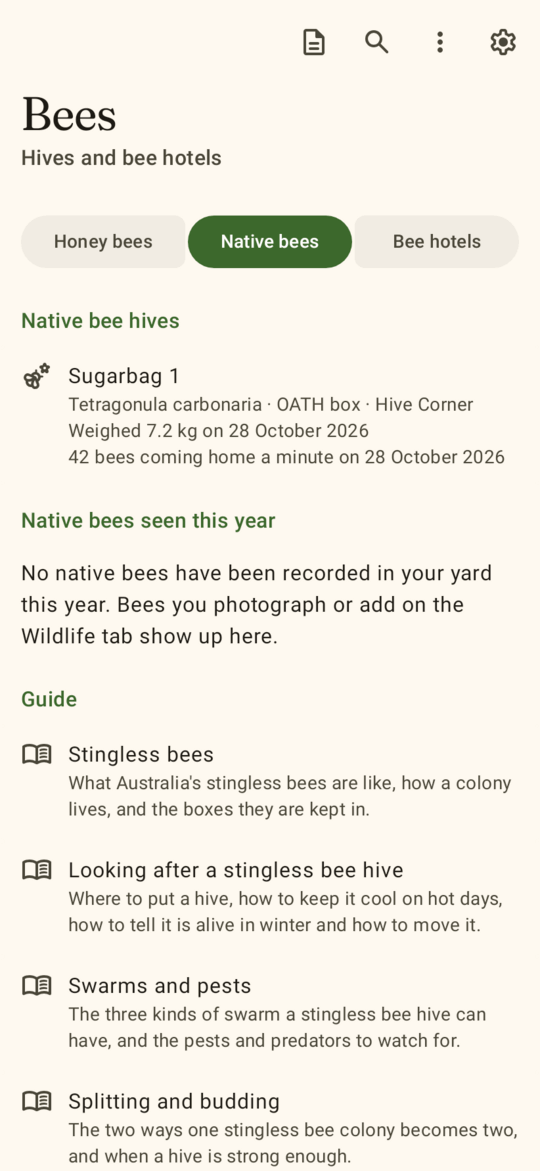
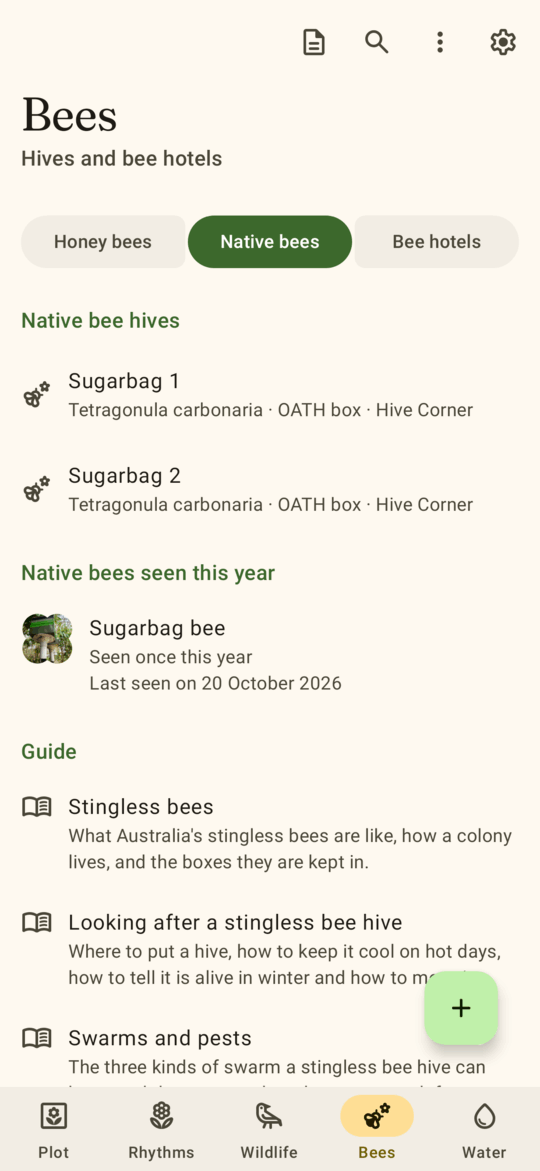
Use the garden photos in the README's Rhythms and Bees screenshots

diff --git a/app/src/test/java/io/github/wkoller/pollenplot/ReadmeScreensTest.kt b/app/src/test/java/io/github/wkoller/pollenplot/ReadmeScreensTest.kt
@@ -21,6 +21,10 @@ import coil3.annotation.DelicateCoilApi
 import coil3.imageDecoderEnabled
 import io.github.wkoller.pollenplot.data.PhotoAnalysis
 import io.github.wkoller.pollenplot.data.prefs.Settings
+import io.github.wkoller.pollenplot.domain.bees.stingless.Facing
+import io.github.wkoller.pollenplot.domain.bees.stingless.NativeBox
+import io.github.wkoller.pollenplot.domain.bees.stingless.NativeOrigin
+import io.github.wkoller.pollenplot.domain.bees.stingless.StinglessSpecies
 import io.github.wkoller.pollenplot.domain.garden.ZoneKind
 import io.github.wkoller.pollenplot.domain.garden.ZoneRect
 import io.github.wkoller.pollenplot.domain.id.BoxBp
@@ -108,6 +112,27 @@ class ReadmeScreensTest {
     }
 
     @Test
+    fun theRhythmsTab() {
+        seed()
+        showApp()
+        compose.pressWhenShown(hasText("Rhythms"))
+        // Scrolls until the heading after the plants in flower is in view, so the whole list of them shows.
+        compose.scrollTo(hasText("Flowering through the year"))
+        waitFor(hasText("Seen flowering in your garden"))
+        shot("readme_rhythms")
+    }
+
+    @Test
+    fun theNativeBees() {
+        seed()
+        showApp()
+        compose.pressWhenShown(hasText("Bees"))
+        compose.pressWhenShown(hasText("Native bees"))
+        waitFor(hasText("Sugarbag bee"))
+        shot("readme_bees")
+    }
+
+    @Test
     @Config(qualifiers = "en-rAU-w411dp-h2000dp-xhdpi")
     fun identifyingAPhoto() {
         ready()
@@ -172,6 +197,8 @@ class ReadmeScreensTest {
             addPlant("lilac-flower", null, "Plectranthus", hive.id, daysAgo(4))
             addPlant("blue-flower", "Convolvulus sabatius", null, hive.id, daysAgo(6))
             addPlant("red-lily", null, "Hippeastrum", hive.id, daysAgo(12))
+            app.container.nativeBees.addHive("Sugarbag 1", StinglessSpecies.TETRAGONULA_CARBONARIA, NativeBox.OATH, NativeOrigin.BOUGHT, hive.id, Facing.NE, LocalDate.of(2025, 9, 1))
+            app.container.nativeBees.addHive("Sugarbag 2", StinglessSpecies.TETRAGONULA_CARBONARIA, NativeBox.OATH, NativeOrigin.SPLIT, hive.id, Facing.NE, LocalDate.of(2026, 3, 14))
             addPlant("strawberry-flower", "Fragaria × ananassa", null, veg.id, daysAgo(7))
 
             addSighting("galah", LifeGroup.BIRD, IdSource.AIY_BIRDS, "Eolophus roseicapilla", "Galah", front.id, emptyList(), setOf(Behaviour.FEEDING), 2, daysAgo(1))

diff --git a/README.md b/README.md
@@ -9,7 +9,7 @@ wildlife, bees and watering fit together. It is written for Australian gardens f
 <p align="center">
   <img src="docs/screenshots/plot.png" width="250" alt="The Plot, with four zones of the yard on a grid, cut-outs of the plants photographed in each, and a Today card asking for the citrus patch to be fed">
   <img src="docs/screenshots/identify.png" width="250" alt="Identify, with a photo of a white flower with a red centre named as Native rosella, Hibiscus heterophyllus">
-  <img src="docs/screenshots/rhythms.png" width="250" alt="Pollen Rhythms, with this month's flowers for honey bees and stingless bees and a year of nectar and pollen for each group of bees">
+  <img src="docs/screenshots/rhythms.png" width="250" alt="Pollen Rhythms, listing the plants flowering now with a cut-out from each one's photo, above a chart of when each plant flowers through the year">
 </p>
 
 Pollenplot needs Android 12 or newer. Test versions are published on the
@@ -65,7 +65,7 @@ Grow Me Instead booklets.
 
 <p align="center">
   <img src="docs/screenshots/wildlife.png" width="250" alt="The Wildlife tab, with five species seen this year, a bronze orange bug among the garden pests, and a galah among the birds, each with a cut-out from its photo">
-  <img src="docs/screenshots/bees.png" width="250" alt="The Bees tab on native bees, with a sugarbag hive's weight and flight count, and guides to keeping stingless bees">
+  <img src="docs/screenshots/bees.png" width="250" alt="The Bees tab on native bees, with two sugarbag hives in the Hive Corner and the sugarbag bee seen this year, shown with its photo">
 </p>
 
 The Wildlife tab shows a year of animals seen in your yard: which are native, which were new this year, and when each
@@ -107,7 +107,7 @@ wildlife, including the notes in your records. It searches by words, and by mean
 on the phone. Reports come as PDF or Excel files, opening with a summary and the tasks due. A backup saves the whole
 garden, with its photos, to one file that can be locked with a password.
 
-The screenshots come from the app's screen tests. The Plot, Identify, the plant page and the Wildlife tab show real photos from a garden, put through the app's own photo analysis; the other screens use a demo yard.
+The screenshots come from the app's screen tests. The Plot, Identify, the plant page, Rhythms, Wildlife and Bees show real photos from a garden, put through the app's own photo analysis. The Weeds, Water and Ask screens use a demo yard.
 
 ## Privacy
 

diff --git a/CLAUDE.md b/CLAUDE.md
@@ -22,7 +22,7 @@ export JAVA_HOME=~/.local/opt/jdk-17 ANDROID_HOME=~/Android/Sdk
 `AccessibilityFlowTest` walks the main screens of the demo yard. It fails when a pressable control has no words
 for a screen reader (read from the semantics tree, because Google's Accessibility Test Framework sees nothing of
 Compose under Robolectric), and with text at twice its size it saves each screen as `large_*.png`. `ReadmeScreensTest` makes the README's
-Plot, Identify, plant page and Wildlife screenshots from real garden photos in `app/src/test/resources/readme`, which go
+Plot, Identify, plant page, Rhythms, Wildlife and native bee screenshots from real garden photos in `app/src/test/resources/readme`, which go
 through the app's own photo analysis; copy them into `docs/screenshots/` after a change to those screens. Screen tests save
 pictures to `app/build/screenshots/`. Look at them after UI changes: there are light, dark and
 wide-window versions, and `PlotScreenFlowTest` drives a demo yard (`DemoGarden`) through the Plot, zones, plants and
